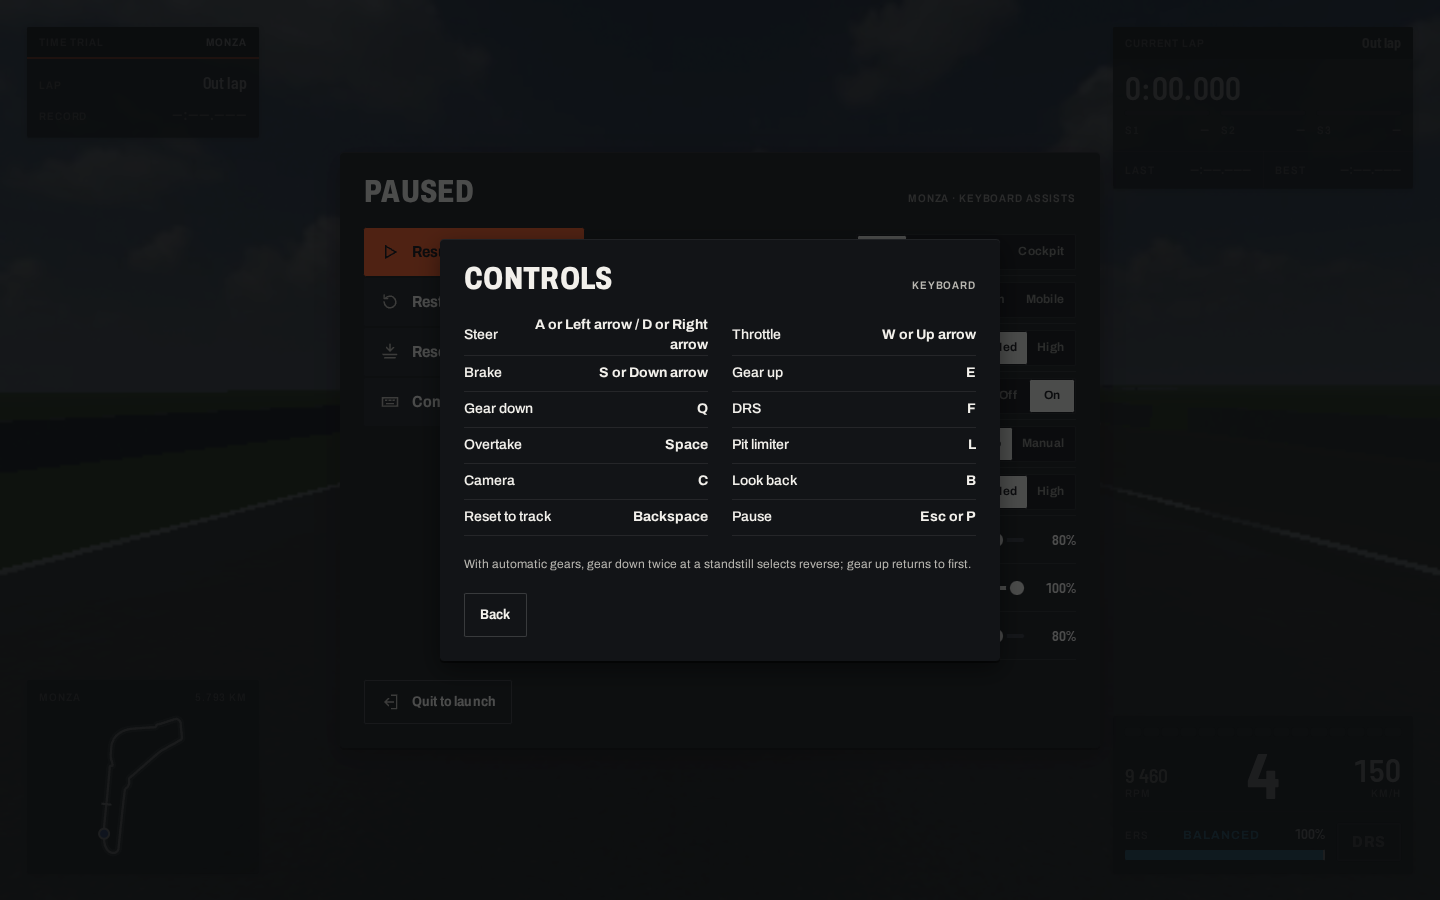
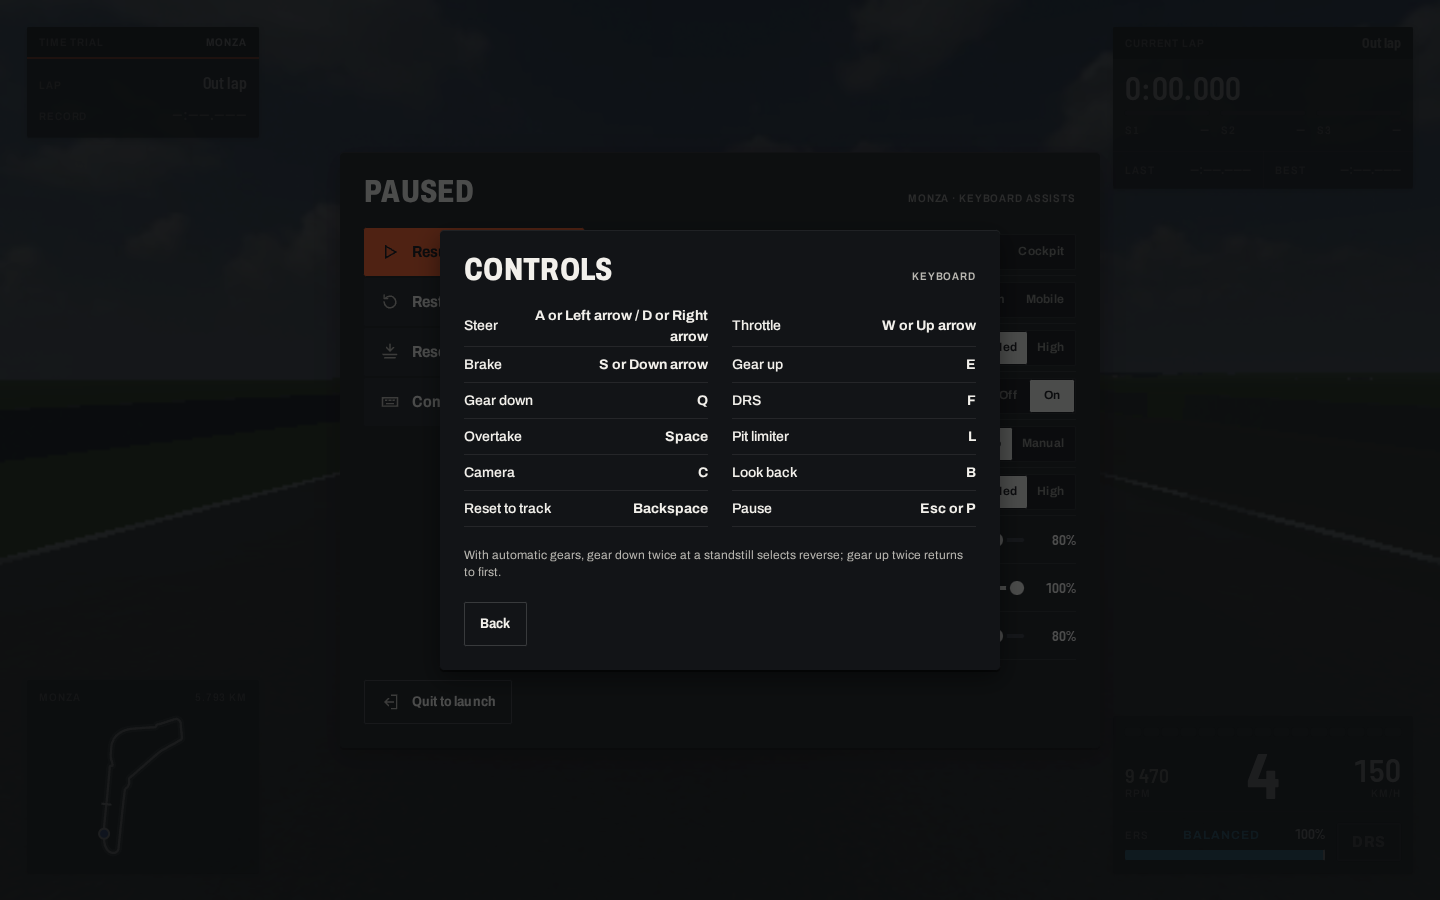
Say gear up twice returns to first, as the automatic gearbox does

Changed region(s): [[0.3125, 0.2489, 0.6875, 0.7156], [0.5938, 0.28, 0.6875, 0.3733]]

diff --git a/apps/web/src/ui/controls-help.test.ts b/apps/web/src/ui/controls-help.test.ts
@@ -1,6 +1,6 @@
 import { defaultBindings, rebind, keyControl } from '@undercut/input';
 import { describe, expect, it } from 'vitest';
-import { controlRows, controlsHint } from './controls-help';
+import { REVERSE_NOTE, controlRows, controlsHint } from './controls-help';
 
 const row = (rows: ReturnType<typeof controlRows>, id: string) => rows.find((r) => r.id === id);
 
@@ -26,6 +26,11 @@ describe('controls list', () => {
     expect(row(controlRows(defaultBindings(), 'gamepad'), 'brake')?.input).toBe('LT');
     expect(row(controlRows(defaultBindings(), 'touch'), 'brake')?.input).toBe('Brake pedal');
     expect(row(controlRows(defaultBindings(), 'touch'), 'pitLimiter')?.input).toBe('Not bound');
+  });
+
+  it('describes reverse as the automatic gearbox does it: two downs to reverse, two ups to first', () => {
+    expect(REVERSE_NOTE).toContain('gear down twice at a standstill selects reverse');
+    expect(REVERSE_NOTE).toContain('gear up twice returns to first');
   });
 
   it('follows a rebinding', () => {

diff --git a/apps/web/src/ui/controls-help.ts b/apps/web/src/ui/controls-help.ts
@@ -35,8 +35,9 @@ export const DEVICE_NAMES: Readonly<Record<DeviceKind, string>> = {
   touch: 'Touch',
 };
 
+/** Matches the automatic gearbox in `@undercut/sim` assists: 1 → N → R when stopped, and back. */
 export const REVERSE_NOTE =
-  'With automatic gears, gear down twice at a standstill selects reverse; gear up returns to first.';
+  'With automatic gears, gear down twice at a standstill selects reverse; gear up twice returns to first.';
 
 const NOT_BOUND = 'Not bound';
 
